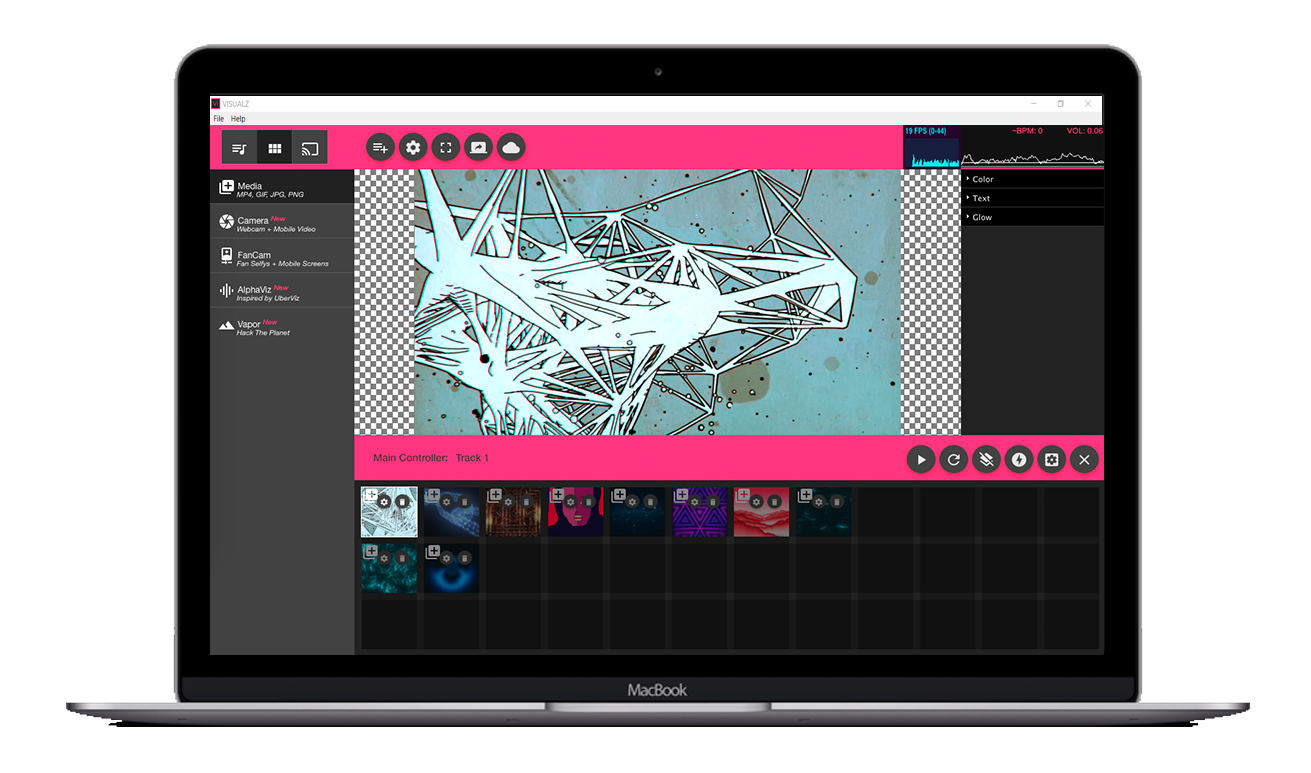
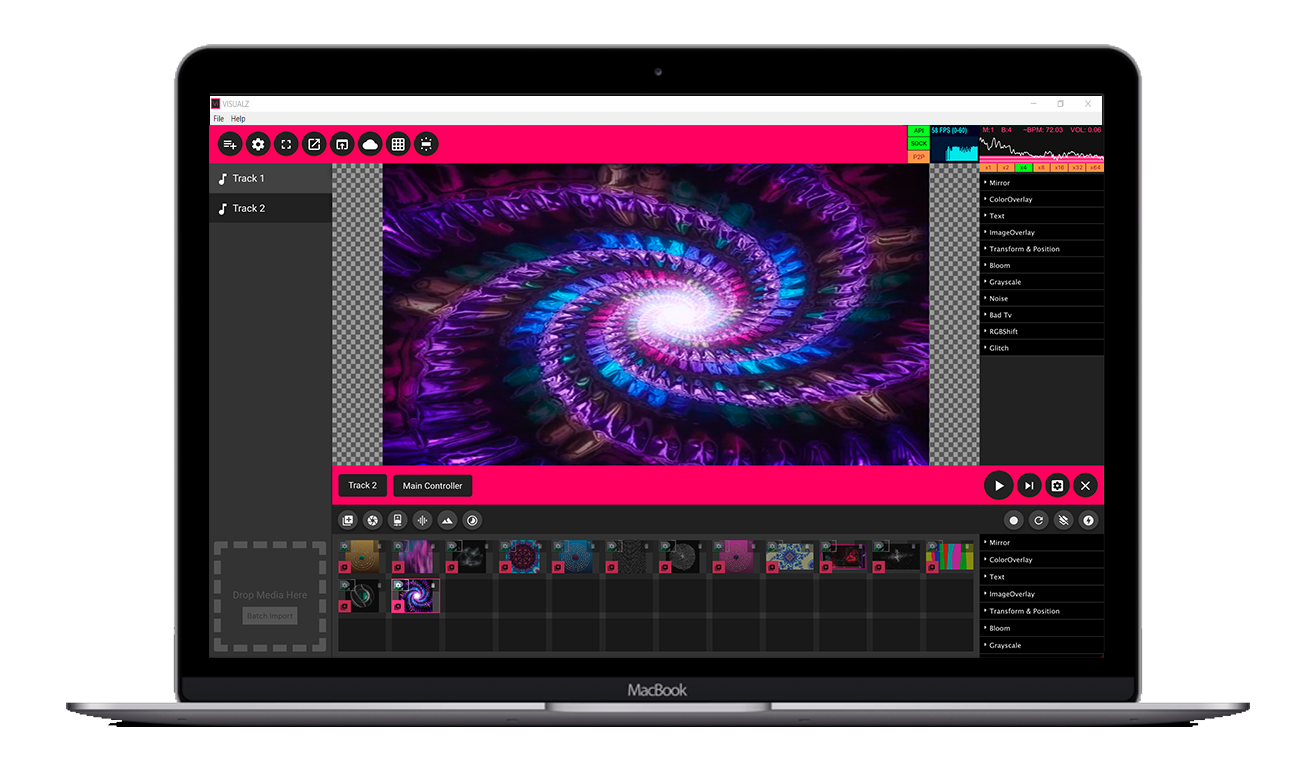
...

diff --git a/src/app/how/how.component.html b/src/app/how/how.component.html
@@ -1,6 +1,11 @@
 <div class="content-wrapper normal">
     <div class="content-inner-wrapper">
         <h1 class="center">START HERE</h1>
+        <p style="font-size: 18px !important; line-height: 26px;" ><strong>
+            In the latest version, v2.1.7., the VISUALZ interface has changed. 
+            Many new features have been added, eg. universal effects. 
+            Thanks for your patience while we update the tutorials and user guides.
+        </strong></p>
         <p>
             Welcome to Visulz. When you open the app click new set. A new track with some content will be created for
             you automatically. You can

diff --git a/src/app/visualz/visualz.component.html b/src/app/visualz/visualz.component.html
@@ -77,7 +77,10 @@
             <h1>VISUALZ v2.1.7</h1>
 
             <div class="">
-                <iframe width="100%" height="240" src="https://www.youtube.com/embed/UyZFcEHbCBM?rel=0&amp;controls=0"
+
+                <img src="../../assets/images/macbook.png" style="width: 500px; margin: 0px 0 25px -55px; padding: 0px;" />
+
+                <iframe style="margin-bottom: 10px;" width="100%" height="240" src="https://www.youtube.com/embed/UyZFcEHbCBM?rel=0&amp;controls=0"
                     frameborder="0" allow="accelerometer; autoplay; encrypted-media; gyroscope; picture-in-picture"
                     allowfullscreen></iframe>
 

diff --git a/src/app/user-guide/user-guide.component.html b/src/app/user-guide/user-guide.component.html
@@ -2,7 +2,11 @@
     <div class="content-inner-wrapper">
 
         <h1 class="center">USER GUIDE</h1>
-
+        <p style="font-size: 18px !important; line-height: 26px;" ><strong>
+            In the latest version, v2.1.7., the VISUALZ interface has changed. 
+            Many new features have been added, eg. universal effects. 
+            Thanks for your patience while we update the tutorials and user guides.
+        </strong></p>
         <app-how-a></app-how-a>
         <div class="clearfix"></div>
 
